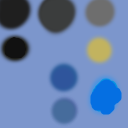
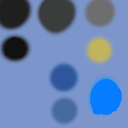
Make arena colors brighter and more muted, make car colors more vibrant

Changed region(s): [[0.6875, 0.625, 0.9688, 0.9062]]

diff --git a/src/shaders.py b/src/shaders.py
@@ -17,42 +17,47 @@ in vec3 distanceToEdges;
 out vec4 f_color;
 
 void main() { 
-    vec4 orange = vec4(1, 0.5, 0, 1);
-    vec4 blue = vec4(0, 0.3, 1, 1);
+    bool isFloor = inData.norm.z > 0.95;
+    bool isCeil = inData.norm.z < -0.95;
+    
     float ratio = clamp((inData.vert.y + 0.01) / 6000, -1, 1);
-    vec3 arenaCol = vec3(0, 0.5, 0);
 
+    float brightness = 0;
+    float colRatio = 0.2 + sqrt(abs(ratio)) * 0.8;
+    colRatio *= 0.75;
+    
+    vec3 arenaCol = vec3(0, 0, 0);
     if (ratio > 0) {
-        ratio = sqrt(ratio);
-        arenaCol.r = ratio;
-        arenaCol.g = ratio/1.9;
+        arenaCol.r = colRatio;
+        arenaCol.g = colRatio * 0.60;
     } else if (ratio < 0) {
-        ratio = sqrt(-ratio);
-        arenaCol.b = ratio;
-        arenaCol.g = ratio/3;
+        arenaCol.b = colRatio;
+        arenaCol.g = colRatio * 0.55;
     }
 
-    float min_col_val = 0.2;
+    float min_col_val = 0.3;
     arenaCol.r = max(arenaCol.r, min_col_val);
     arenaCol.g = max(arenaCol.g, min_col_val);
     arenaCol.b = max(arenaCol.b, min_col_val);
 
     // Prevent color from becoming too dark when gray
-    arenaCol = normalize(arenaCol) * max(length(arenaCol), 0.4);
-
-    arenaCol.xyz *= 0.85;
+    arenaCol = normalize(arenaCol) * max(length(arenaCol), 0.6);
 
     f_color = vec4(arenaCol.x, arenaCol.y, arenaCol.z, 1);
 
     float min_edge_dist = min(distanceToEdges.x, min(distanceToEdges.y, distanceToEdges.z));
     //f_color *= 1 / (1 + min_edge_dist * 0.2);
 
-    float edge_ratio = 1 * float(min_edge_dist < 10);
+    float edge_ratio = 0.95 * float(min_edge_dist < 10);
+    if (isFloor || isCeil)
+        edge_ratio *= 0.7;
+    
     float backlight = abs(inData.norm.y * 0.7 + inData.norm.x * 0.3) * 0.6 + 0.4;
-    float light_ratio = min(backlight * 0.4 + max(0, inData.norm.z) * 0.3, 1);
+    float light_ratio = min(backlight * 0.4 + (max(0, inData.norm.z)) * 0.2, 1);
 
     f_color.xyz *= light_ratio + edge_ratio * (1 - light_ratio);
     f_color.a = 1;
+    f_color *= (1 + brightness);
 
     float ball_radius = 100;
     float circle_width = 10;
@@ -124,9 +129,8 @@ void main() {
     float fresnelRatio = clamp(1 - dot(normFromCam, inData.norm), 0, 1);
     
     /* New experimental lighting that sucks
-    vec4 baseColor = texture(Texture, inData.text).rgba;
-    
     vec3 hsv = rgb2hsv(baseColor.xyz);
+    vec4 baseColor = texture(Texture, inData.text).rgba;
     //hsv[0] = mod(hsv[0] - 0.05, 1);
     vec4 baseColorShifted = vec4(hsv2rgb(hsv), baseColor[3]);
     
@@ -143,6 +147,7 @@ void main() {
     */
     
     vec4 vertColor = texture(Texture, inData.text).rgba;
+    vec3 hsv = rgb2hsv(vertColor.xyz);
     vec3 sunLightDir = normalize(vec3(-0.3, 0.2, -1)) + normFromCam * 0.0001;
     vec3 sunLightColor = vec3(1, 1, 0.8);
             
@@ -156,10 +161,16 @@ void main() {
     float finalExp = 0.9;
     f_color = vec4(pow(baseColor, vec3(finalExp, finalExp, finalExp)), vertColor[3]);
 
+    bool isVibrantColor = hsv[1] > 0.8f;
+    if (isVibrantColor) {
+        // Make vibrant colors less affected by lighting and "pop" more
+        f_color = f_color*0.7 + vertColor*0.3;
+    }
+
     if (vertColor.a != 1) {
         f_color = vertColor;
     }
-
+    
     if (globalColor != vec4(0,0,0,0)) {
         f_color = globalColor;
     }
